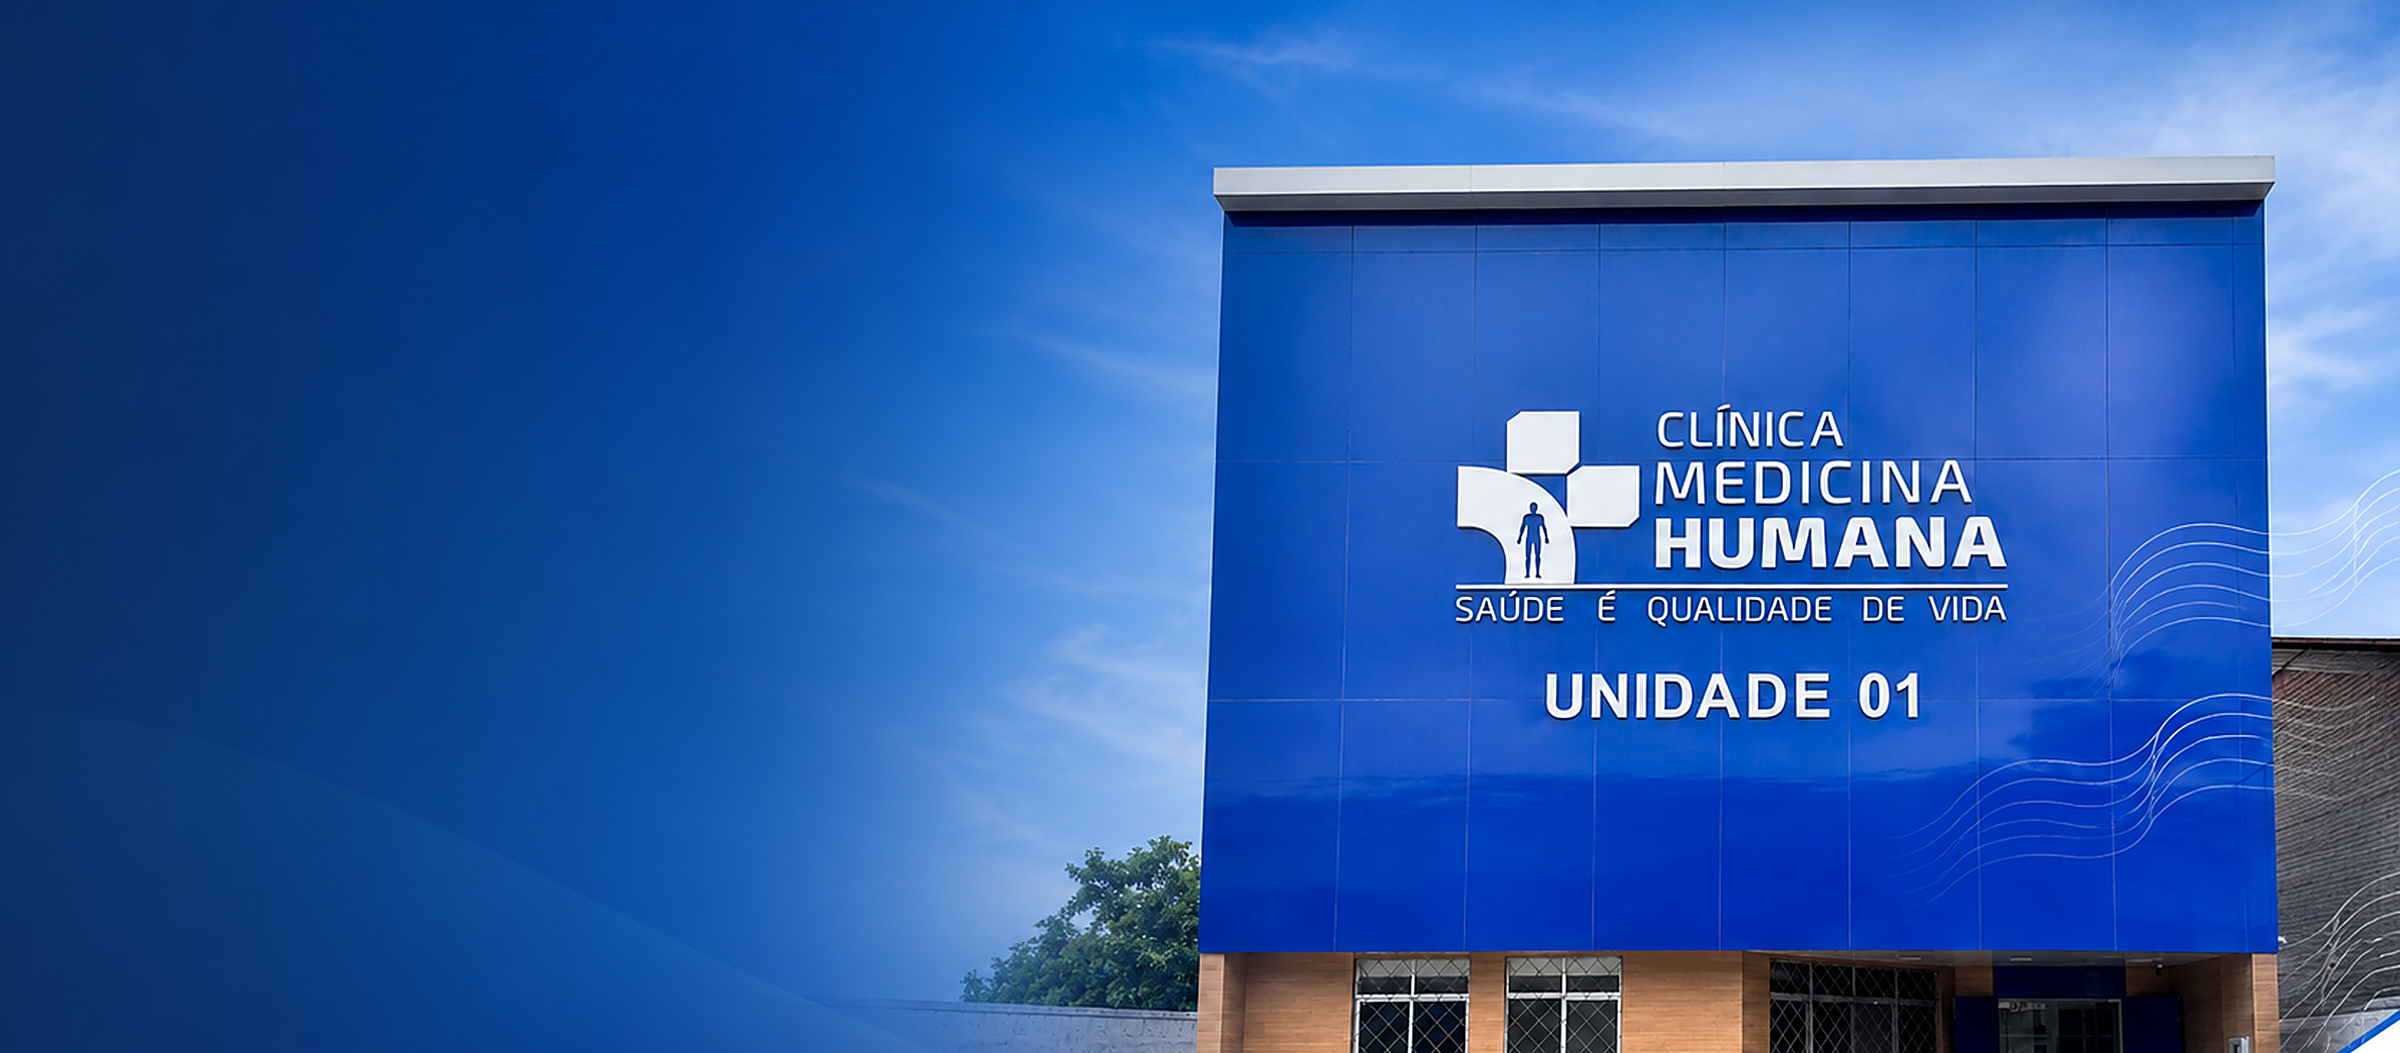
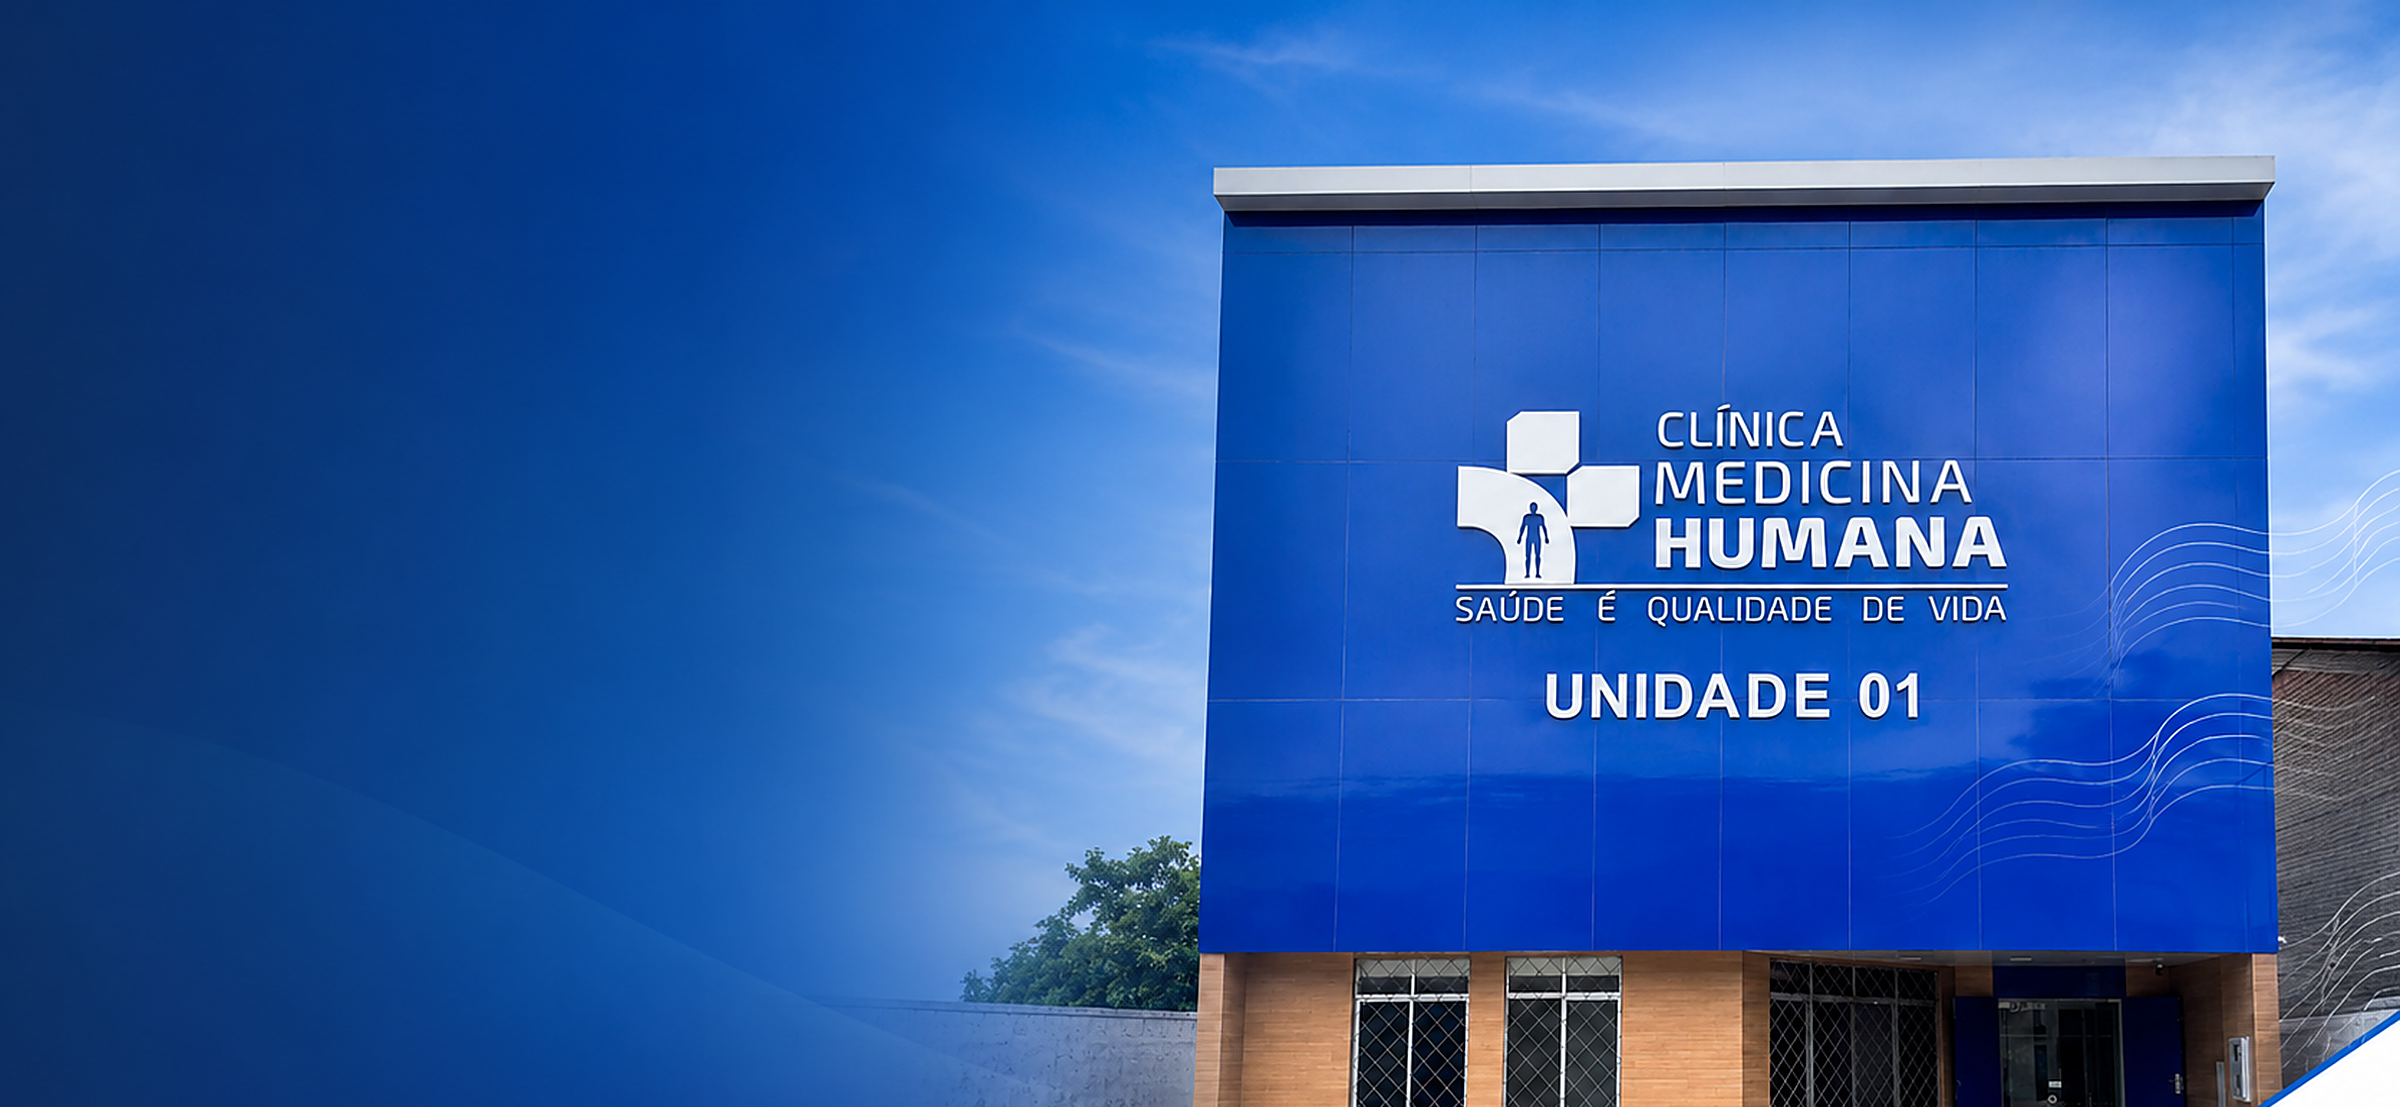
Quem Somos: recorta fotos (sem traco) e enquadra Unidade 01; card Area Medica pronto para med-card.png

diff --git a/quem-somos.html b/quem-somos.html
@@ -68,7 +68,7 @@
       <div class="container page-body__grid">
         <div class="page-body__main">
           <div class="quem-fotos">
-            <div class="page-photo" style="background-image:url('assets/unidade-1-q.png');background-position:92% center"></div>
+            <div class="page-photo" style="background-image:url('assets/unidade-1-q.png');background-position:92% 68%"></div>
             <div class="page-photo" style="background-image:url('assets/unidade-34-q.png')"></div>
             <div class="page-photo" style="background-image:url('assets/unidade-2-q.png')"></div>
           </div>

diff --git a/css/style.css b/css/style.css
@@ -943,7 +943,7 @@ html,body{overflow-x:hidden;max-width:100%}
 
 /* Home: 5 cards (inclui Area Medica) */
 @media(min-width:1025px){.cards .container{max-width:1560px}.cards__grid{grid-template-columns:repeat(5,1fr);max-width:1560px}}
-.card__img--med{background:linear-gradient(150deg,#1290e0 0%,#0a2e5c 100%)}
+.card__img--med{background:#0a2e5c url('../assets/med-card.png') center/cover no-repeat}
 
 /* Menu lateral (mobile): itens escuros no fundo branco, senao ficam invisiveis */
 @media(max-width:1024px){
